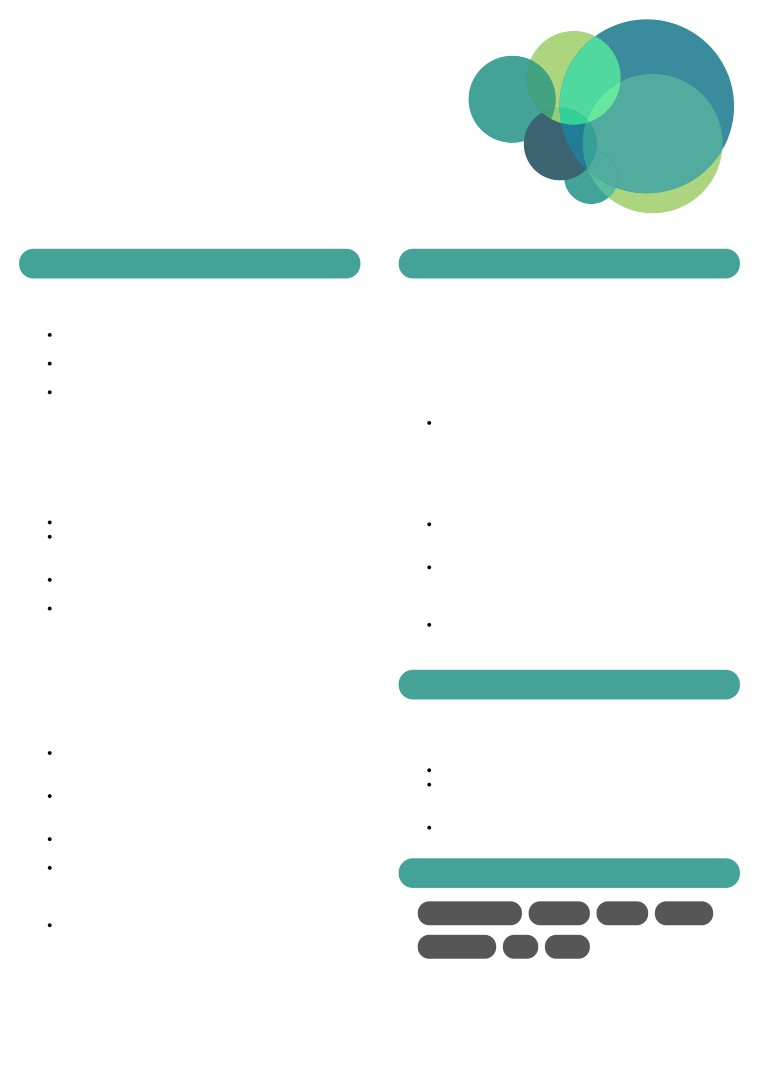
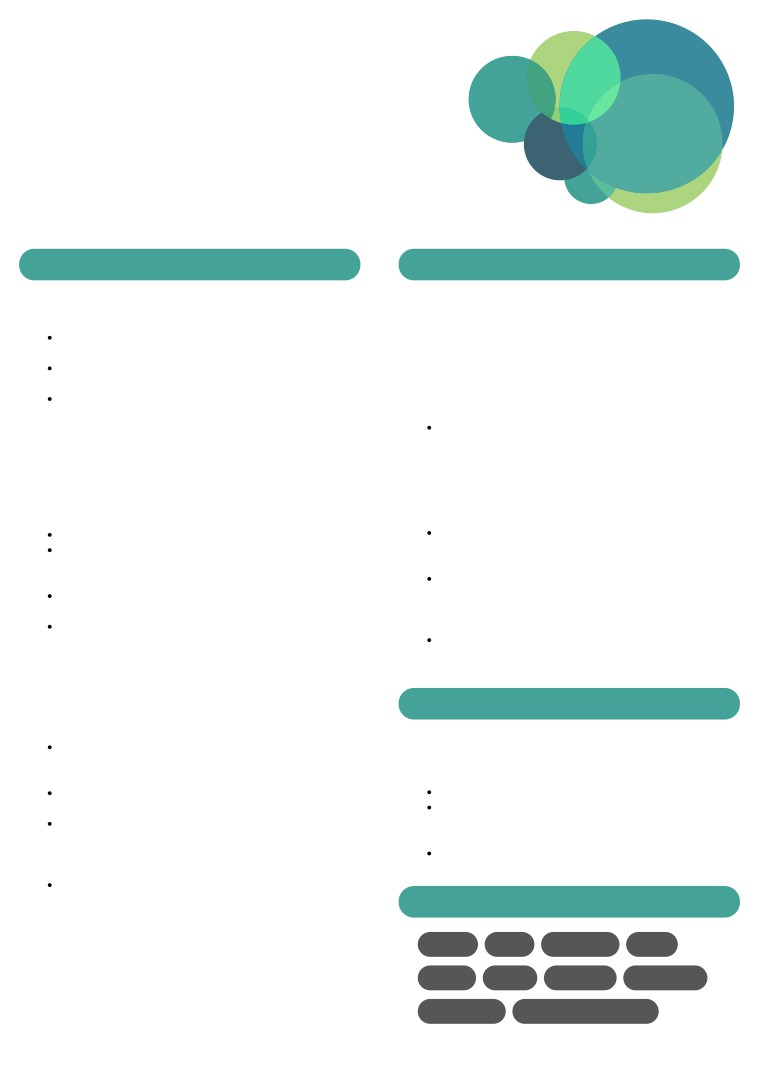
Update

Changed region(s): [[0.5152, 0.7981, 0.9697, 0.9516], [0.5152, 0.614, 0.9697, 0.6753]]

diff --git a/index.html b/index.html
@@ -16,105 +16,106 @@ span.cls_007{font-family:Arial,serif;font-size:9.8px;color:rgb(255,255,255);font
 div.cls_007{font-family:Arial,serif;font-size:9.8px;color:rgb(255,255,255);font-weight:bold;font-style:normal;text-decoration: none}
 -->
 </style>
-<script type="text/javascript" src="4326770e-b890-11e9-9d71-0cc47a792c0a_id_4326770e-b890-11e9-9d71-0cc47a792c0a_files/wz_jsgraphics.js"></script>
+<script type="text/javascript" src="2257abd4-6b36-11ea-8b25-0cc47a792c0a_id_2257abd4-6b36-11ea-8b25-0cc47a792c0a_files/wz_jsgraphics.js"></script>
 </head>
 <body>
 <div style="position:absolute;left:50%;margin-left:-297px;top:0px;width:594px;height:841px;border-style:outset;overflow:hidden">
 <div style="position:absolute;left:0px;top:0px">
-<img src="img/background1.jpg" width=594 height=841></div>
-<div style="position:absolute;left:29.97px;top:21.56px" class="cls_002"><span class="cls_002">MONTIQUE STEVENS</span></div>
-<div style="position:absolute;left:29.97px;top:64.28px" class="cls_003"><span class="cls_003">Web:</span></div>
-<div style="position:absolute;left:117.72px;top:64.28px" class="cls_003"><span class="cls_003"> </span><A HREF="https://www.mstevens.xyz/">https://www.mstevens.xyz</A> </div>
-<div style="position:absolute;left:29.97px;top:76.27px" class="cls_003"><span class="cls_003">Phone number:</span></div>
-<div style="position:absolute;left:117.72px;top:76.27px" class="cls_003"><span class="cls_003">646 236 9016</span></div>
-<div style="position:absolute;left:29.97px;top:88.26px" class="cls_003"><span class="cls_003">Email address:</span></div>
-<div style="position:absolute;left:117.72px;top:88.26px" class="cls_003"><span class="cls_003"> </span><A HREF="mailto:montiquestevens@icloud.com">montiquestevens@icloud.com</A> </div>
-<div style="position:absolute;left:29.97px;top:100.24px" class="cls_003"><span class="cls_003">GitHub:</span></div>
-<div style="position:absolute;left:117.72px;top:100.24px" class="cls_003"><span class="cls_003"> </span><A HREF="https://github.com/nycbeardo">https://github.com/nycbeardo</A> </div>
+<img src="2257abd4-6b36-11ea-8b25-0cc47a792c0a_id_2257abd4-6b36-11ea-8b25-0cc47a792c0a_files/background1.jpg" width=594 height=841></div>
+<div style="position:absolute;left:29.97px;top:20.81px" class="cls_002"><span class="cls_002">MONTIQUE STEVENS</span></div>
+<div style="position:absolute;left:29.97px;top:67.27px" class="cls_003"><span class="cls_003">Web:</span></div>
+<div style="position:absolute;left:117.72px;top:67.27px" class="cls_003"><span class="cls_003"> </span><A HREF="http://www.nycbeardo.design/">www.nycbeardo.design</A> </div>
+<div style="position:absolute;left:29.97px;top:80.01px" class="cls_003"><span class="cls_003">Phone number:</span></div>
+<div style="position:absolute;left:117.72px;top:80.01px" class="cls_003"><span class="cls_003">646 236 9016</span></div>
+<div style="position:absolute;left:29.97px;top:92.75px" class="cls_003"><span class="cls_003">Email address:</span></div>
+<div style="position:absolute;left:117.72px;top:92.75px" class="cls_003"><span class="cls_003"> </span><A HREF="mailto:montiquestevens@icloud.com">montiquestevens@icloud.com</A> </div>
+<div style="position:absolute;left:29.97px;top:105.49px" class="cls_003"><span class="cls_003">Dribbble:</span></div>
+<div style="position:absolute;left:117.72px;top:105.49px" class="cls_003"><span class="cls_003"> </span><A HREF="https://dribbble.com/nycbeardo">https://dribbble.com/nycbeardo</A> </div>
+<div style="position:absolute;left:29.97px;top:118.23px" class="cls_003"><span class="cls_003">GitHub:</span></div>
+<div style="position:absolute;left:117.72px;top:118.23px" class="cls_003"><span class="cls_003"> </span><A HREF="https://github.com/nycbeardo">https://github.com/nycbeardo</A> </div>
 <div style="position:absolute;left:29.97px;top:196.16px" class="cls_004"><span class="cls_004"></span><span class="cls_005"> PROFESSIONAL EXPERIENCE</span></div>
 <div style="position:absolute;left:327.47px;top:196.16px" class="cls_004"><span class="cls_004"></span><span class="cls_005"> EDUCATION</span></div>
-<div style="position:absolute;left:29.97px;top:224.64px" class="cls_006"><span class="cls_006">Front End Web Developer</span></div>
-<div style="position:absolute;left:190.28px;top:224.64px" class="cls_003"><span class="cls_003">11/2017 - present</span></div>
-<div style="position:absolute;left:484.68px;top:223.89px" class="cls_003"><span class="cls_003">07/2019 - present</span></div>
-<div style="position:absolute;left:29.97px;top:235.88px" class="cls_003"><span class="cls_003">Freelance, Brooklyn, United States</span></div>
-<div style="position:absolute;left:327.47px;top:235.13px" class="cls_003"><span class="cls_003">Brooklyn College, Brooklyn, United States</span></div>
-<div style="position:absolute;left:48.71px;top:254.62px" class="cls_003"><span class="cls_003">Built mini game in JavaScript to fetch questions</span></div>
-<div style="position:absolute;left:327.47px;top:254.62px" class="cls_006"><span class="cls_006">Major: Multimedia Computing | Minor:</span></div>
-<div style="position:absolute;left:48.71px;top:265.86px" class="cls_003"><span class="cls_003">using Open Quiz DB API</span></div>
-<div style="position:absolute;left:327.47px;top:266.61px" class="cls_006"><span class="cls_006">Cognitive Science</span></div>
-<div style="position:absolute;left:48.71px;top:277.10px" class="cls_003"><span class="cls_003">Built concept responsive site layouts using</span></div>
-<div style="position:absolute;left:48.71px;top:288.34px" class="cls_003"><span class="cls_003">HTML/CSS/JS</span></div>
-<div style="position:absolute;left:481.94px;top:292.83px" class="cls_003"><span class="cls_003">09/2014 - 12/2018</span></div>
-<div style="position:absolute;left:48.71px;top:299.58px" class="cls_003"><span class="cls_003">Building User Interface based projects to</span></div>
-<div style="position:absolute;left:327.47px;top:304.07px" class="cls_003"><span class="cls_003">CUNY Kingsborough , Brooklyn, United States</span></div>
-<div style="position:absolute;left:48.71px;top:310.82px" class="cls_003"><span class="cls_003">demonstrate knowledge of UI/UX design</span></div>
-<div style="position:absolute;left:48.71px;top:322.06px" class="cls_003"><span class="cls_003">principles</span></div>
-<div style="position:absolute;left:346.21px;top:323.56px" class="cls_003"><span class="cls_003">Associate of Applied Science - </span><span class="cls_006">Computer</span></div>
-<div style="position:absolute;left:346.21px;top:335.55px" class="cls_006"><span class="cls_006">Information Systems</span></div>
-<div style="position:absolute;left:29.97px;top:349.04px" class="cls_006"><span class="cls_006">Inventory Transaction Control</span></div>
-<div style="position:absolute;left:29.97px;top:360.28px" class="cls_006"><span class="cls_006">Associate</span></div>
-<div style="position:absolute;left:183.69px;top:360.28px" class="cls_003"><span class="cls_003">09/2017 - 03/2018</span></div>
-<div style="position:absolute;left:481.31px;top:361.78px" class="cls_003"><span class="cls_003">06/2016 - 09/2017</span></div>
-<div style="position:absolute;left:29.97px;top:371.52px" class="cls_003"><span class="cls_003">UncomonGoods , Brooklyn , United States</span></div>
-<div style="position:absolute;left:327.47px;top:373.02px" class="cls_003"><span class="cls_003">New York Public Library Tech Connect, New York,</span></div>
-<div style="position:absolute;left:327.47px;top:384.26px" class="cls_003"><span class="cls_003">United States</span></div>
-<div style="position:absolute;left:48.71px;top:401.49px" class="cls_003"><span class="cls_003">Billing, product support and customer purchases.</span></div>
-<div style="position:absolute;left:346.21px;top:402.99px" class="cls_003"><span class="cls_003">Gained hands on knowledge in front end web</span></div>
-<div style="position:absolute;left:48.71px;top:412.73px" class="cls_003"><span class="cls_003">Compare the quantities of items physically</span></div>
-<div style="position:absolute;left:346.21px;top:414.23px" class="cls_003"><span class="cls_003">development including the use of HTML, CSS, and</span></div>
-<div style="position:absolute;left:48.71px;top:423.97px" class="cls_003"><span class="cls_003">present in the warehouse to the inventory</span></div>
-<div style="position:absolute;left:346.21px;top:425.47px" class="cls_003"><span class="cls_003">JavaScript</span></div>
-<div style="position:absolute;left:48.71px;top:435.21px" class="cls_003"><span class="cls_003">records of a warehouse.</span></div>
-<div style="position:absolute;left:346.21px;top:436.71px" class="cls_003"><span class="cls_003">Gained experience in the use of web frameworks</span></div>
-<div style="position:absolute;left:48.71px;top:446.45px" class="cls_003"><span class="cls_003">Used Zendesk software client to identify and</span></div>
-<div style="position:absolute;left:346.21px;top:447.95px" class="cls_003"><span class="cls_003">to augment class projects such as a tribute page</span></div>
-<div style="position:absolute;left:48.71px;top:457.69px" class="cls_003"><span class="cls_003">resolve customer service issues</span></div>
-<div style="position:absolute;left:346.21px;top:459.19px" class="cls_003"><span class="cls_003">for the 1964 Worlds Fair, Client website, and</span></div>
-<div style="position:absolute;left:48.71px;top:468.94px" class="cls_003"><span class="cls_003">Adjusted inventory records electronically</span></div>
-<div style="position:absolute;left:346.21px;top:470.43px" class="cls_003"><span class="cls_003">updating the UX of a mobile product</span></div>
-<div style="position:absolute;left:48.71px;top:480.18px" class="cls_003"><span class="cls_003">whenever possible to update the master</span></div>
-<div style="position:absolute;left:346.21px;top:481.67px" class="cls_003"><span class="cls_003">Collaborated with fellow students on on a group</span></div>
-<div style="position:absolute;left:48.71px;top:491.42px" class="cls_003"><span class="cls_003">database.</span></div>
-<div style="position:absolute;left:346.21px;top:492.91px" class="cls_003"><span class="cls_003">project demonstrating a UI concept for a social</span></div>
-<div style="position:absolute;left:346.21px;top:504.16px" class="cls_003"><span class="cls_003">media site using CodePen, Cloud9, and GitHub</span></div>
-<div style="position:absolute;left:327.47px;top:525.89px" class="cls_004"><span class="cls_004"></span><span class="cls_005"> VOLUNTEERING</span></div>
-<div style="position:absolute;left:29.97px;top:540.87px" class="cls_006"><span class="cls_006">Research Assistant</span></div>
-<div style="position:absolute;left:184.54px;top:540.87px" class="cls_003"><span class="cls_003">09/2015 - 05/2017</span></div>
-<div style="position:absolute;left:29.97px;top:552.12px" class="cls_003"><span class="cls_003">CUNY, Brooklyn, United States</span></div>
-<div style="position:absolute;left:327.47px;top:554.36px" class="cls_006"><span class="cls_006">Volunteer</span></div>
-<div style="position:absolute;left:530.81px;top:554.36px" class="cls_003"><span class="cls_003">present</span></div>
-<div style="position:absolute;left:327.47px;top:565.60px" class="cls_003"><span class="cls_003">New York Cares, New York, United States</span></div>
-<div style="position:absolute;left:48.71px;top:582.09px" class="cls_003"><span class="cls_003">Created and conducted presentations for the</span></div>
-<div style="position:absolute;left:48.71px;top:593.33px" class="cls_003"><span class="cls_003">purposes of education, promoting new research</span></div>
-<div style="position:absolute;left:346.21px;top:595.58px" class="cls_003"><span class="cls_003">Ad hoc duties in various departments.</span></div>
-<div style="position:absolute;left:48.71px;top:604.57px" class="cls_003"><span class="cls_003">tools, and policy impacting evidence.</span></div>
-<div style="position:absolute;left:346.21px;top:606.82px" class="cls_003"><span class="cls_003">Developed leadership skills as well as assisting</span></div>
-<div style="position:absolute;left:48.71px;top:615.81px" class="cls_003"><span class="cls_003">Conducted research on the use of technology as</span></div>
-<div style="position:absolute;left:346.21px;top:618.06px" class="cls_003"><span class="cls_003">other  volunteer  members  by  supporting,  and</span></div>
-<div style="position:absolute;left:48.71px;top:627.05px" class="cls_003"><span class="cls_003">a possible aid to prepare students with social</span></div>
-<div style="position:absolute;left:346.21px;top:629.30px" class="cls_003"><span class="cls_003">collaborating to helping preserve the trails.</span></div>
-<div style="position:absolute;left:48.71px;top:638.29px" class="cls_003"><span class="cls_003">anxiety to enter the workforce.</span></div>
-<div style="position:absolute;left:346.21px;top:640.54px" class="cls_003"><span class="cls_003">Ensured safety protocols were maintained at all</span></div>
-<div style="position:absolute;left:48.71px;top:649.53px" class="cls_003"><span class="cls_003">Entering, coding, and managing quantitative and</span></div>
-<div style="position:absolute;left:346.21px;top:651.78px" class="cls_003"><span class="cls_003">times in work areas.</span></div>
-<div style="position:absolute;left:48.71px;top:660.77px" class="cls_003"><span class="cls_003">qualitative data.</span></div>
-<div style="position:absolute;left:48.71px;top:672.01px" class="cls_003"><span class="cls_003">Engaged in face-to-face communication with 75 -</span></div>
-<div style="position:absolute;left:327.47px;top:673.51px" class="cls_004"><span class="cls_004"></span><span class="cls_005"> TECHNICAL SKILLS</span></div>
-<div style="position:absolute;left:48.71px;top:683.26px" class="cls_003"><span class="cls_003">100 respondents and collected questionnaire</span></div>
-<div style="position:absolute;left:48.71px;top:694.50px" class="cls_003"><span class="cls_003">data feedback using Google Forms, online</span></div>
-<div style="position:absolute;left:48.71px;top:705.74px" class="cls_003"><span class="cls_003">surveys via Reddit</span></div>
-<div style="position:absolute;left:334.97px;top:708.73px" class="cls_007"><span class="cls_007">JavaScript ES6</span></div>
-<div style="position:absolute;left:421.64px;top:708.73px" class="cls_007"><span class="cls_007">Python</span></div>
-<div style="position:absolute;left:474.76px;top:708.73px" class="cls_007"><span class="cls_007">React</span></div>
-<div style="position:absolute;left:521.14px;top:708.73px" class="cls_007"><span class="cls_007">jQuery</span></div>
-<div style="position:absolute;left:48.71px;top:716.98px" class="cls_003"><span class="cls_003">Maintained accurate digital records of</span></div>
-<div style="position:absolute;left:48.71px;top:728.22px" class="cls_003"><span class="cls_003">participants’ responses, safeguarded the</span></div>
-<div style="position:absolute;left:334.97px;top:734.96px" class="cls_007"><span class="cls_007">Bootstrap</span></div>
-<div style="position:absolute;left:401.46px;top:734.96px" class="cls_007"><span class="cls_007">Git</span></div>
-<div style="position:absolute;left:434.68px;top:734.96px" class="cls_007"><span class="cls_007">Java</span></div>
-<div style="position:absolute;left:48.71px;top:739.46px" class="cls_003"><span class="cls_003">confidentiality of responses, and increased</span></div>
-<div style="position:absolute;left:48.71px;top:750.70px" class="cls_003"><span class="cls_003">accuracy of responses, lowering error rate by 10</span></div>
-<div style="position:absolute;left:48.71px;top:761.94px" class="cls_003"><span class="cls_003">percent.</span></div>
+<div style="position:absolute;left:29.97px;top:225.39px" class="cls_006"><span class="cls_006">Web Developer & UX Designer</span></div>
+<div style="position:absolute;left:186.90px;top:225.39px" class="cls_003"><span class="cls_003">11/2017 - present</span></div>
+<div style="position:absolute;left:484.40px;top:225.39px" class="cls_003"><span class="cls_003">07/2019 - present</span></div>
+<div style="position:absolute;left:29.97px;top:237.38px" class="cls_003"><span class="cls_003">Brooklyn, United States</span></div>
+<div style="position:absolute;left:327.47px;top:237.38px" class="cls_003"><span class="cls_003">Brooklyn College, Brooklyn, United States</span></div>
+<div style="position:absolute;left:48.71px;top:256.86px" class="cls_003"><span class="cls_003">Built mini game in JavaScript to fetch questions</span></div>
+<div style="position:absolute;left:327.47px;top:256.86px" class="cls_006"><span class="cls_006">Major: Multimedia Computing | Minor:</span></div>
+<div style="position:absolute;left:48.71px;top:268.85px" class="cls_003"><span class="cls_003">using Open Quiz DB API</span></div>
+<div style="position:absolute;left:327.47px;top:268.85px" class="cls_006"><span class="cls_006">Cognitive Science</span></div>
+<div style="position:absolute;left:48.71px;top:280.84px" class="cls_003"><span class="cls_003">Built concept responsive site layouts using</span></div>
+<div style="position:absolute;left:48.71px;top:292.83px" class="cls_003"><span class="cls_003">HTML/CSS/JS</span></div>
+<div style="position:absolute;left:480.14px;top:295.83px" class="cls_003"><span class="cls_003">09/2014 - 12/2018</span></div>
+<div style="position:absolute;left:48.71px;top:304.82px" class="cls_003"><span class="cls_003">Building interface design- centric projects to</span></div>
+<div style="position:absolute;left:327.47px;top:307.82px" class="cls_003"><span class="cls_003">CUNY Kingsborough , Brooklyn, United States</span></div>
+<div style="position:absolute;left:48.71px;top:316.81px" class="cls_003"><span class="cls_003">demonstrate knowledge of UI/UX design</span></div>
+<div style="position:absolute;left:48.71px;top:328.80px" class="cls_003"><span class="cls_003">principles</span></div>
+<div style="position:absolute;left:346.21px;top:327.30px" class="cls_003"><span class="cls_003">Associate of Applied Science - </span><span class="cls_006">Computer</span></div>
+<div style="position:absolute;left:346.21px;top:339.29px" class="cls_006"><span class="cls_006">Information Systems</span></div>
+<div style="position:absolute;left:29.97px;top:355.78px" class="cls_006"><span class="cls_006">Inventory Transaction Control</span></div>
+<div style="position:absolute;left:29.97px;top:367.77px" class="cls_006"><span class="cls_006">Associate</span></div>
+<div style="position:absolute;left:182.64px;top:367.77px" class="cls_003"><span class="cls_003">09/2017 - 03/2018</span></div>
+<div style="position:absolute;left:480.14px;top:366.27px" class="cls_003"><span class="cls_003">06/2016 - 09/2017</span></div>
+<div style="position:absolute;left:29.97px;top:379.76px" class="cls_003"><span class="cls_003">UncomonGoods , Brooklyn , United States</span></div>
+<div style="position:absolute;left:327.47px;top:378.26px" class="cls_003"><span class="cls_003">New York Public Library Tech Connect, New York,</span></div>
+<div style="position:absolute;left:327.47px;top:390.25px" class="cls_003"><span class="cls_003">United States</span></div>
+<div style="position:absolute;left:48.71px;top:411.23px" class="cls_003"><span class="cls_003">Billing, product support and customer purchases.</span></div>
+<div style="position:absolute;left:346.21px;top:409.73px" class="cls_003"><span class="cls_003">Gained hands on knowledge in front end web</span></div>
+<div style="position:absolute;left:48.71px;top:423.22px" class="cls_003"><span class="cls_003">Compare the quantities of items physically</span></div>
+<div style="position:absolute;left:346.21px;top:421.72px" class="cls_003"><span class="cls_003">development including the use of HTML, CSS, and</span></div>
+<div style="position:absolute;left:48.71px;top:435.21px" class="cls_003"><span class="cls_003">present in the warehouse to the inventory records</span></div>
+<div style="position:absolute;left:346.21px;top:433.71px" class="cls_003"><span class="cls_003">JavaScript</span></div>
+<div style="position:absolute;left:48.71px;top:447.20px" class="cls_003"><span class="cls_003">of a warehouse.</span></div>
+<div style="position:absolute;left:346.21px;top:445.70px" class="cls_003"><span class="cls_003">Gained experience in the use of web frameworks</span></div>
+<div style="position:absolute;left:48.71px;top:459.19px" class="cls_003"><span class="cls_003">Used Zendesk SaaS client to identify and resolve</span></div>
+<div style="position:absolute;left:346.21px;top:457.69px" class="cls_003"><span class="cls_003">to augment class projects such as a tribute page</span></div>
+<div style="position:absolute;left:48.71px;top:471.18px" class="cls_003"><span class="cls_003">customer service issues</span></div>
+<div style="position:absolute;left:346.21px;top:469.68px" class="cls_003"><span class="cls_003">for the 1964 Worlds Fair, Client website, and</span></div>
+<div style="position:absolute;left:48.71px;top:483.17px" class="cls_003"><span class="cls_003">Adjusted inventory records electronically</span></div>
+<div style="position:absolute;left:346.21px;top:481.67px" class="cls_003"><span class="cls_003">updating the UX of a mobile product</span></div>
+<div style="position:absolute;left:48.71px;top:495.16px" class="cls_003"><span class="cls_003">whenever possible to update the master database.</span></div>
+<div style="position:absolute;left:346.21px;top:493.66px" class="cls_003"><span class="cls_003">Collaborated with fellow students on on a group</span></div>
+<div style="position:absolute;left:346.21px;top:505.65px" class="cls_003"><span class="cls_003">project demonstrating a UI concept for a social</span></div>
+<div style="position:absolute;left:346.21px;top:517.64px" class="cls_003"><span class="cls_003">media site using CodePen, Cloud9, and GitHub</span></div>
+<div style="position:absolute;left:29.97px;top:534.13px" class="cls_006"><span class="cls_006">Research Assistant</span></div>
+<div style="position:absolute;left:182.64px;top:534.13px" class="cls_003"><span class="cls_003">09/2015 - 05/2017</span></div>
+<div style="position:absolute;left:29.97px;top:546.12px" class="cls_003"><span class="cls_003">CUNY, Brooklyn, United States</span></div>
+<div style="position:absolute;left:327.47px;top:540.13px" class="cls_004"><span class="cls_004"></span><span class="cls_005"> VOLUNTEERING</span></div>
+<div style="position:absolute;left:327.47px;top:569.35px" class="cls_006"><span class="cls_006">Volunteer</span></div>
+<div style="position:absolute;left:532.44px;top:569.35px" class="cls_003"><span class="cls_003">present</span></div>
+<div style="position:absolute;left:48.71px;top:577.59px" class="cls_003"><span class="cls_003">Created and conducted presentations for the</span></div>
+<div style="position:absolute;left:327.47px;top:581.34px" class="cls_003"><span class="cls_003">New York Cares, New York, United States</span></div>
+<div style="position:absolute;left:48.71px;top:589.58px" class="cls_003"><span class="cls_003">purposes of education, promoting new research</span></div>
+<div style="position:absolute;left:48.71px;top:601.57px" class="cls_003"><span class="cls_003">tools, and policy impacting evidence.</span></div>
+<div style="position:absolute;left:48.71px;top:613.56px" class="cls_003"><span class="cls_003">Entering, coding, and managing quantitative and</span></div>
+<div style="position:absolute;left:346.21px;top:612.81px" class="cls_003"><span class="cls_003">Ad hoc duties in various departments.</span></div>
+<div style="position:absolute;left:48.71px;top:625.55px" class="cls_003"><span class="cls_003">qualitative data.</span></div>
+<div style="position:absolute;left:346.21px;top:624.80px" class="cls_003"><span class="cls_003">Developed leadership skills as well as assisting</span></div>
+<div style="position:absolute;left:48.71px;top:637.54px" class="cls_003"><span class="cls_003">Engaged in face-to-face communication with 75 -</span></div>
+<div style="position:absolute;left:346.21px;top:636.79px" class="cls_003"><span class="cls_003">other  volunteer  members  by   supporting,   and</span></div>
+<div style="position:absolute;left:48.71px;top:649.53px" class="cls_003"><span class="cls_003">100 respondents and collected questionnaire data</span></div>
+<div style="position:absolute;left:346.21px;top:648.78px" class="cls_003"><span class="cls_003">collaborating to helping preserve the trails.</span></div>
+<div style="position:absolute;left:48.71px;top:661.52px" class="cls_003"><span class="cls_003">feedback using Google Forms, online surveys via</span></div>
+<div style="position:absolute;left:346.21px;top:660.77px" class="cls_003"><span class="cls_003">Ensured safety protocols were maintained at all</span></div>
+<div style="position:absolute;left:48.71px;top:673.51px" class="cls_003"><span class="cls_003">Reddit</span></div>
+<div style="position:absolute;left:346.21px;top:672.76px" class="cls_003"><span class="cls_003">times in work areas.</span></div>
+<div style="position:absolute;left:48.71px;top:685.50px" class="cls_003"><span class="cls_003">Maintained accurate digital records of</span></div>
+<div style="position:absolute;left:48.71px;top:697.49px" class="cls_003"><span class="cls_003">participants’ responses, safeguarded the</span></div>
+<div style="position:absolute;left:327.47px;top:695.24px" class="cls_004"><span class="cls_004"></span><span class="cls_005"> TECHNICAL SKILLS</span></div>
+<div style="position:absolute;left:48.71px;top:709.48px" class="cls_003"><span class="cls_003">confidentiality of responses, and increased</span></div>
+<div style="position:absolute;left:48.71px;top:721.47px" class="cls_003"><span class="cls_003">accuracy of responses, lowering error rate by 10</span></div>
+<div style="position:absolute;left:48.71px;top:733.46px" class="cls_003"><span class="cls_003">percent.</span></div>
+<div style="position:absolute;left:334.97px;top:731.96px" class="cls_007"><span class="cls_007">HTML5</span></div>
+<div style="position:absolute;left:387.38px;top:731.96px" class="cls_007"><span class="cls_007">CSS3</span></div>
+<div style="position:absolute;left:431.56px;top:731.96px" class="cls_007"><span class="cls_007">JavaScript</span></div>
+<div style="position:absolute;left:498.45px;top:731.96px" class="cls_007"><span class="cls_007">React</span></div>
+<div style="position:absolute;left:334.97px;top:758.19px" class="cls_007"><span class="cls_007">Python</span></div>
+<div style="position:absolute;left:386.16px;top:758.19px" class="cls_007"><span class="cls_007">Figma</span></div>
+<div style="position:absolute;left:433.53px;top:758.19px" class="cls_007"><span class="cls_007">Adobe Xd</span></div>
+<div style="position:absolute;left:496.06px;top:758.19px" class="cls_007"><span class="cls_007">Prototyping</span></div>
+<div style="position:absolute;left:334.97px;top:784.42px" class="cls_007"><span class="cls_007">Wireframing</span></div>
+<div style="position:absolute;left:409.19px;top:784.42px" class="cls_007"><span class="cls_007">Responive Web Design</span></div>
 </div>
 
 </body>
